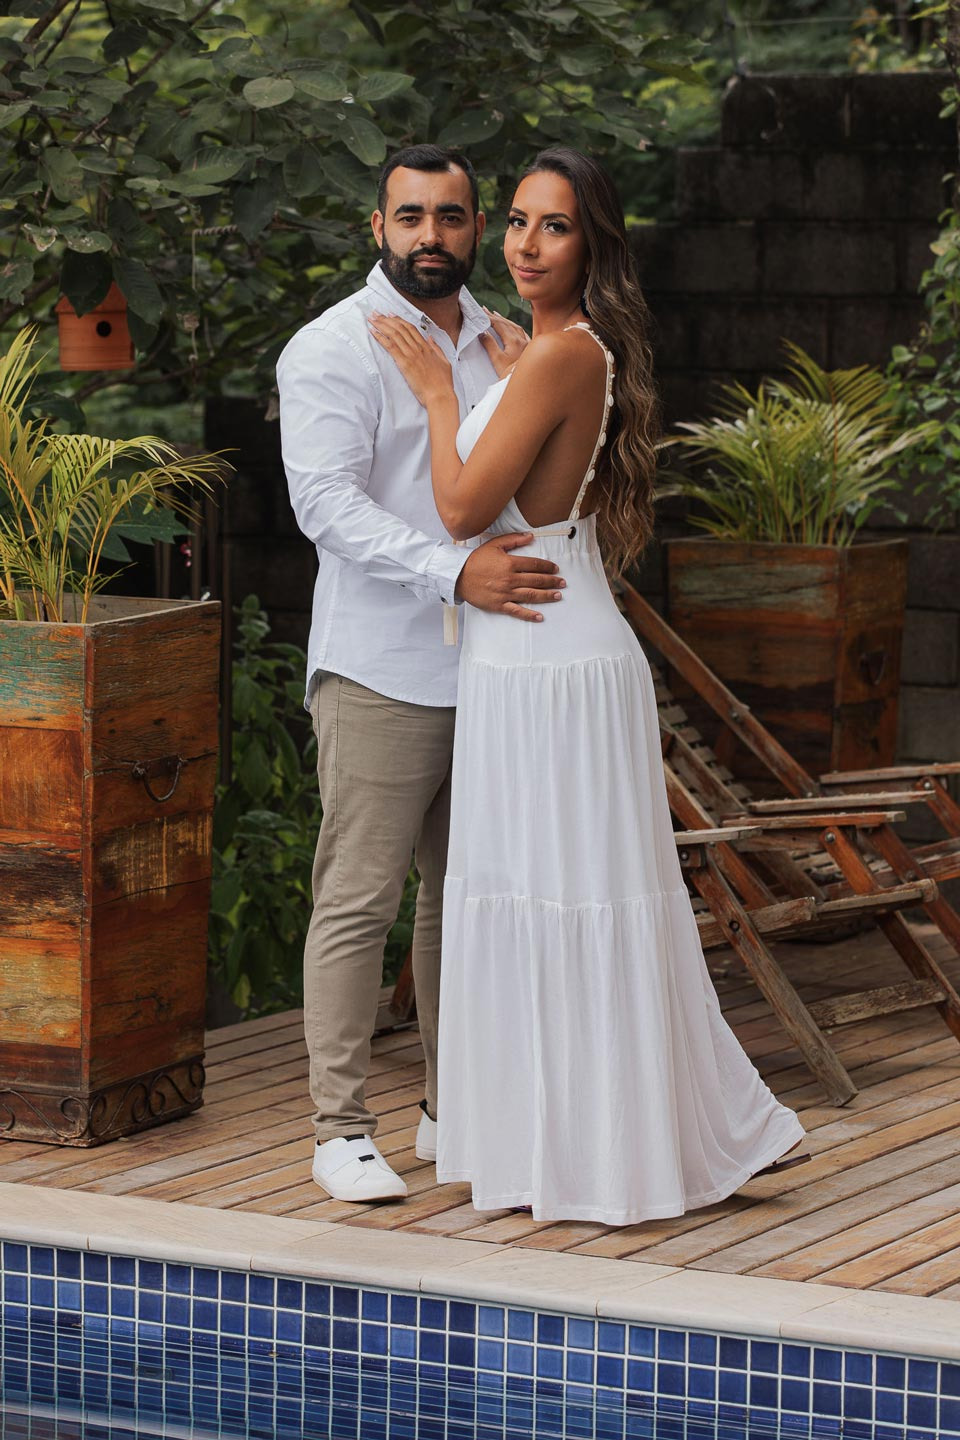
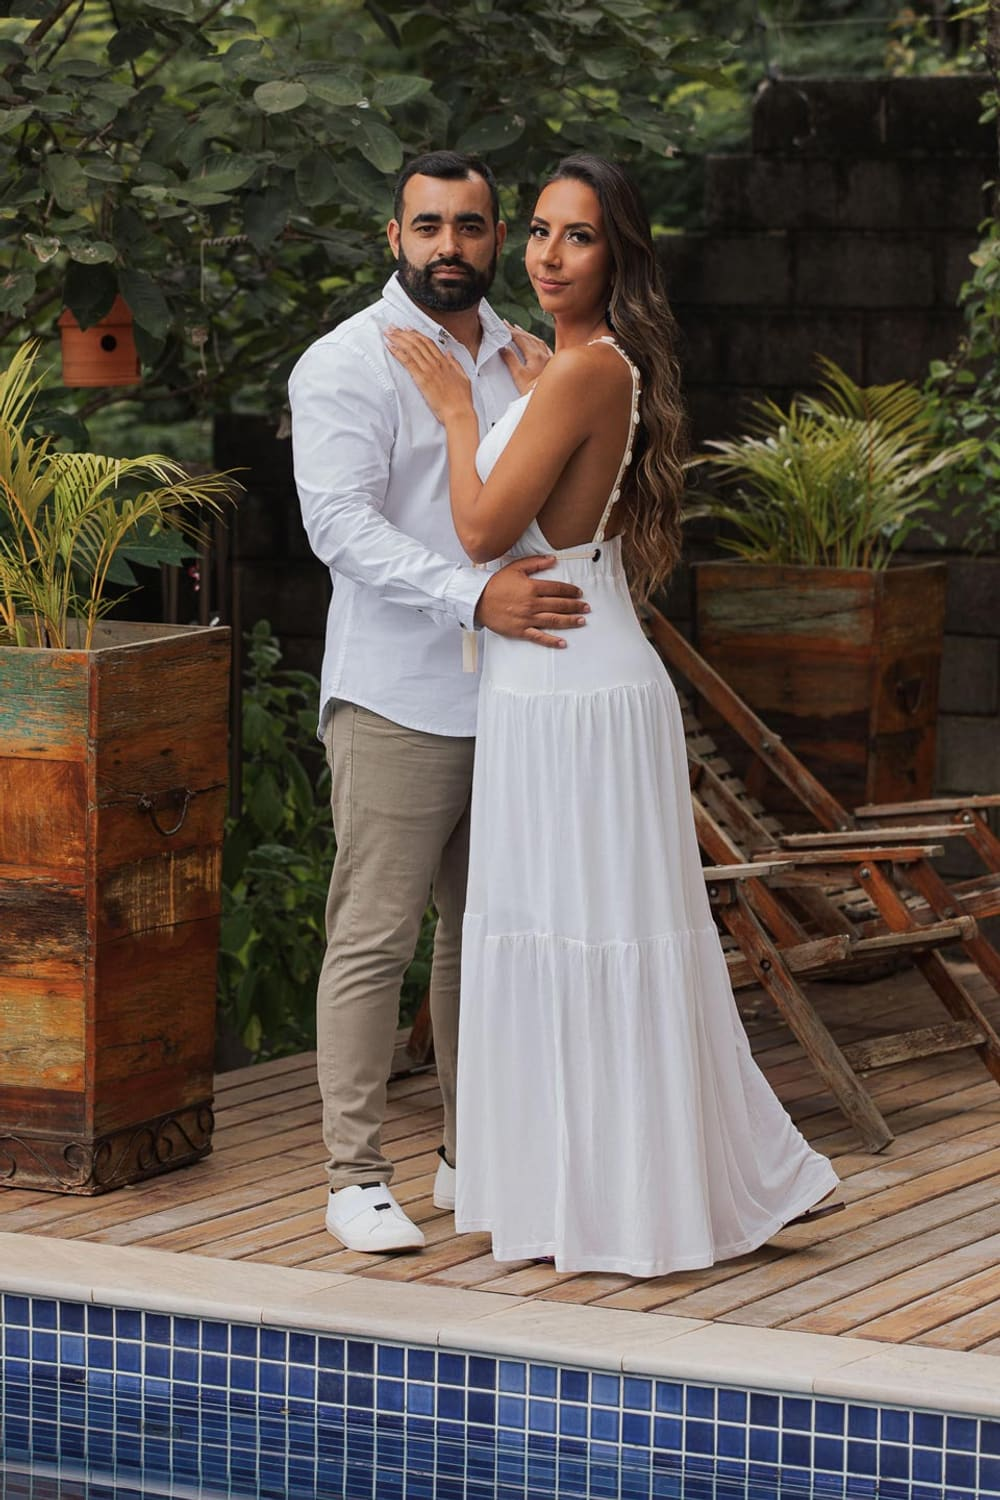
Otimiza imagens para carregamento mais rápido
Reduz textura.jpg de 5.4MB para 42KB, converte traje.png (2.2MB) para traje.webp (152KB) e comprime foto01.jpg de 351KB para 184KB, sem perda visível de qualidade. Adiciona loading lazy nas imagens abaixo da dobra

diff --git a/index.html b/index.html
@@ -694,7 +694,7 @@
 </section>
 
 <section class="welcome">
-  <img src="assets/icone/alianca.png" alt="" class="rsvp-icon">
+  <img src="assets/icone/alianca.png" alt="" class="rsvp-icon" loading="lazy" decoding="async">
   <p class="welcome-text">
     Queridos familiares e amigos,<br><br>
     Estamos muito felizes e preparando cada detalhe com muito amor e carinho!
@@ -722,7 +722,7 @@
 <section id="historia">
   <h2 class="section-title">Local do Evento</h2>
   <div class="story">
-    <img src="assets/geral/sketch01.png" alt="Ilustração do local">
+    <img src="assets/geral/sketch01.png" alt="Ilustração do local" loading="lazy" decoding="async">
     <div class="event-info">
       <h3>Cerimônia</h3>
       <p>17 de Outubro de 2026 &ndash; 18h</p>
@@ -739,12 +739,12 @@
   <p class="traje-title">Traje</p>
   <p class="traje-code">Passeio Completo</p>
   <div class="traje-illustration-wrap">
-    <img class="traje-illustration" src="assets/geral/traje.png" alt="Ilustração de traje">
+    <img class="traje-illustration" src="assets/geral/traje.webp" alt="Ilustração de traje" loading="lazy" decoding="async">
   </div>
 </section>
 
 <section id="rsvp" class="gifts">
-  <img src="assets/icone/rsvp.png" alt="" class="rsvp-icon">
+  <img src="assets/icone/rsvp.png" alt="" class="rsvp-icon" loading="lazy" decoding="async">
   <h2 class="section-title">Rsvp.</h2>
   <p>Sua presença é fundamental para nós! Por favor, confirme sua participação
   preenchendo o formulário abaixo. Isso nos ajudará muito na organização do grande dia.</p>
@@ -752,7 +752,7 @@
 </section>
 
 <section id="galeria">
-  <img src="assets/icone/coracao.png" alt="" class="rsvp-icon">
+  <img src="assets/icone/coracao.png" alt="" class="rsvp-icon" loading="lazy" decoding="async">
   <h2 class="section-title">Nossos momentos</h2>
   <div class="gallery-grid" id="galleryGrid"></div>
   <a href="#" class="btn" id="galleryMoreBtn" style="display:none;margin-top:40px;">Ver Mais Fotos</a>
